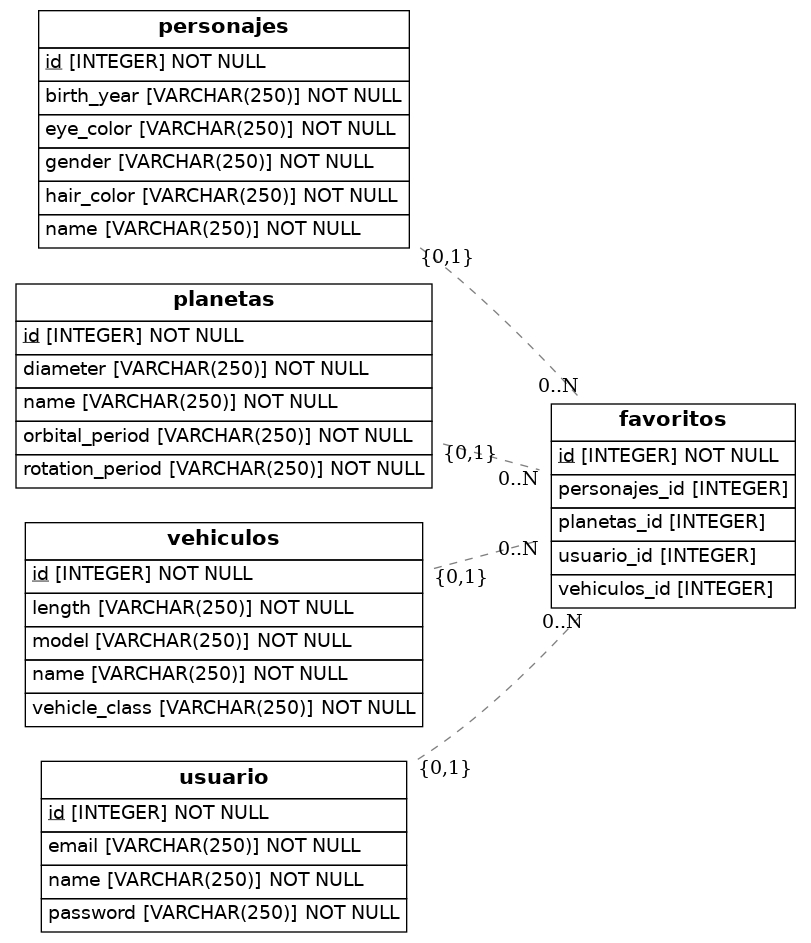
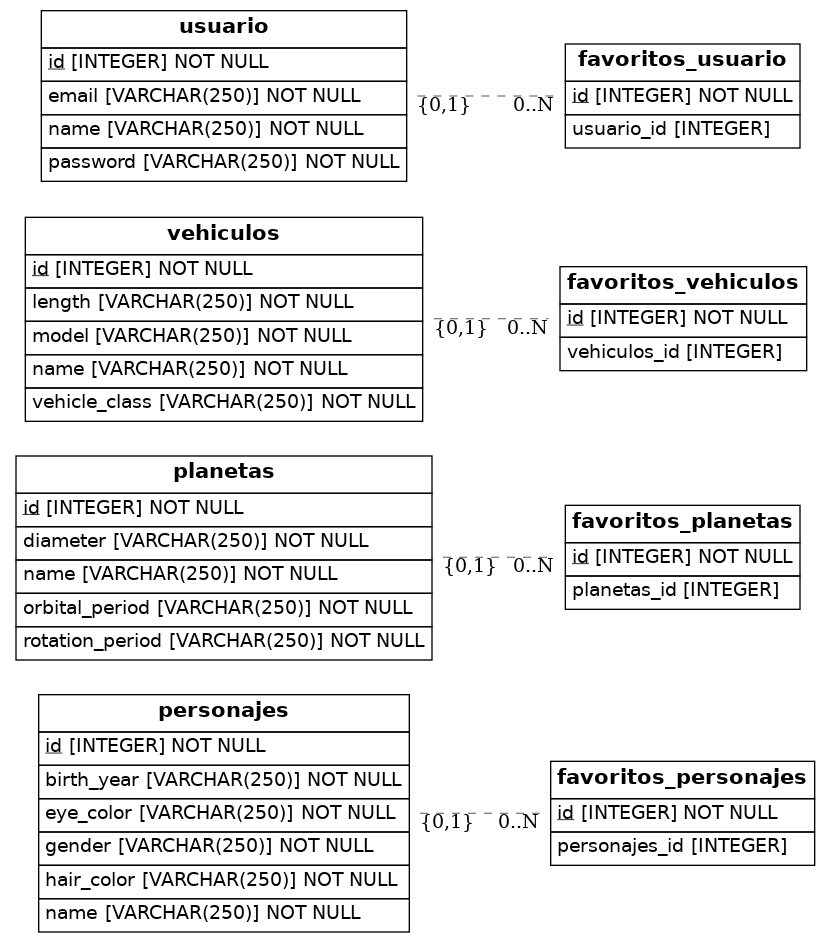
cambio en el codigo para los favoritos

Changed region(s): [[0.0, 0.0, 0.9864, 0.9841], [0.6165, 0.2768, 0.9864, 0.4305], [0.6165, 0.0308, 0.9864, 0.1538]]

diff --git a/src/models.py b/src/models.py
@@ -17,7 +17,7 @@ class Personajes(Base):
     eye_color = Column(String(250), nullable=False)
     gender = Column(String(250), nullable=False)
     hair_color = Column(String(250), nullable=False)
-    favoritos = relationship('Favoritos', backref='personajes', lazy=True)
+    favoritosPersonajes = relationship('FavoritosPersonajes', backref='personajes', lazy=True)
 
 
 class Planetas(Base):
@@ -29,7 +29,7 @@ class Planetas(Base):
     diameter = Column(String(250),nullable=False)
     rotation_period = Column(String(250), nullable=False)
     orbital_period = Column(String(250), nullable=False)
-    favoritos = relationship('Favoritos', backref='planetas', lazy=True)
+    favoritosPlanetas = relationship('FavoritosPlanetas', backref='planetas', lazy=True)
     # person_id = Column(Integer, ForeignKey('person.id'))
     # person = relationship(Person)
 
@@ -40,7 +40,7 @@ class Vehiculos(Base):
     model = Column(String(250),nullable=False)
     vehicle_class = Column(String(250),nullable=False)
     length = Column(String(250),nullable=False)
-    favoritos = relationship('Favoritos', backref='vehiculos', lazy=True)
+    favoritosVehiculos = relationship('FavoritosVehiculos', backref='vehiculos', lazy=True)
 
 class Usuario(Base):
     __tablename__ = 'usuario'
@@ -48,15 +48,30 @@ class Usuario(Base):
     name = Column(String(250),nullable=False)
     email = Column(String(250),nullable=False)
     password = Column(String(250),nullable=False)
-    favoritos = relationship('Favoritos', backref='usuario', lazy=True)
+    favoritosUsuario = relationship('FavoritosUsuario', backref='usuario', lazy=True)
 
-class Favoritos(Base):
-    __tablename__ = 'favoritos'
+
+
+class FavoritosPersonajes(Base):
+    __tablename__ = 'favoritos_personajes'
+    id = Column(Integer,primary_key=True)    
+    personajes_id = Column(Integer, ForeignKey('personajes.id'))
+        
+class FavoritosPlanetas(Base):
+    __tablename__ = 'favoritos_planetas'
+    id = Column(Integer,primary_key=True)
+    planetas_id = Column(Integer, ForeignKey('planetas.id'))
+
+class FavoritosVehiculos(Base):
+    __tablename__ = 'favoritos_vehiculos'
+    id = Column(Integer,primary_key=True)
+    vehiculos_id = Column(Integer, ForeignKey('vehiculos.id'))
+
+class FavoritosUsuario(Base):
+    __tablename__ = 'favoritos_usuario'
     id = Column(Integer,primary_key=True)
     usuario_id = Column(Integer, ForeignKey('usuario.id'))
-    personajes_id = Column(Integer, ForeignKey('personajes.id'))
-    planetas_id = Column(Integer, ForeignKey('planetas.id'))
-    vehiculos_id = Column(Integer, ForeignKey('vehiculos.id'))
+
     
     
 
@@ -64,8 +79,8 @@ class Favoritos(Base):
 
 
 
-    def to_dict(self):
-        return {}
+def to_dict(self):
+    return {}
 
 ## Draw from SQLAlchemy base
 render_er(Base, 'diagram.png')
